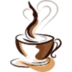
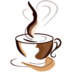
Add files via upload

diff --git a/offline.html b/offline.html
@@ -3,12 +3,32 @@
     <head>
         <style>
             body {
-                background-color: red;
+                background-color: #c6e0b4;
+                width:100%;
+                margin:0;
+            }
+            main {
+                width:90%;
+                margin:auto;
+            }
+            p {
+                font-size:4em;
+                width: 100%;
+                padding-top: 20%;
+                text-align: center;
+            }
+            img {
+                width:50%;
             }
         </style>
+
+        <script src="https://unpkg.com/pulltorefreshjs"></script>
     </head>
 
     <body>
-        <p>Désolé, la page n'est pas disponible hors connexion</p>
+        <main>
+        <p>La page n'est pas disponible hors connexion</p>
+        <p><img src="images/cafe.png" /></p>
+        </main>
     </body>
 </html>

diff --git a/sw.js b/sw.js
@@ -1,11 +1,12 @@
 self.addEventListener('install', (event) => {
     event.waitUntil(
-      caches.open('v2').then((cache) => {
+      caches.open('v4').then((cache) => {
         return cache.addAll([
           'offline.html', // Page à afficher quand hors connexion
           'app.js',
           'api.js',
-            'site.manifest',
+          'images/cafe.png',
+          'site.manifest'
         ]);
       })
     );

diff --git a/styles.css b/styles.css
@@ -3,6 +3,9 @@ body {
   background-color:#c6e0b4;
   margin:0px;
 }
+img {
+  width:150px;
+}
 section {
   width:80%;
   margin: auto;
@@ -113,6 +116,9 @@ dialog::backdrop {
 }
 @media screen and (max-width: 1200px) {
 
+  img {
+    width:50px;
+  }
   h1 {
     font-size:2.3em;
   }
